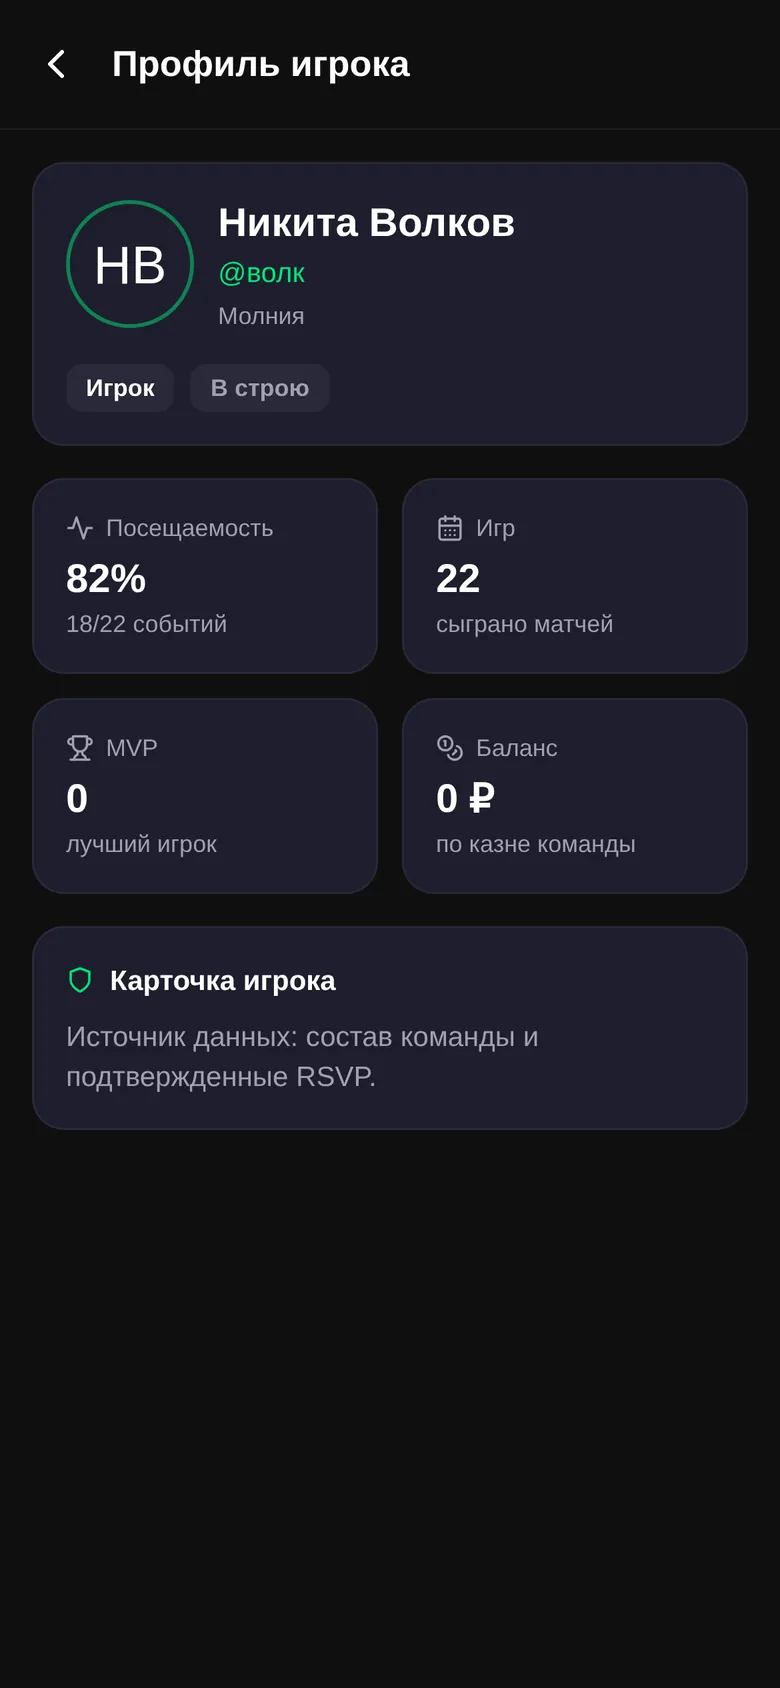
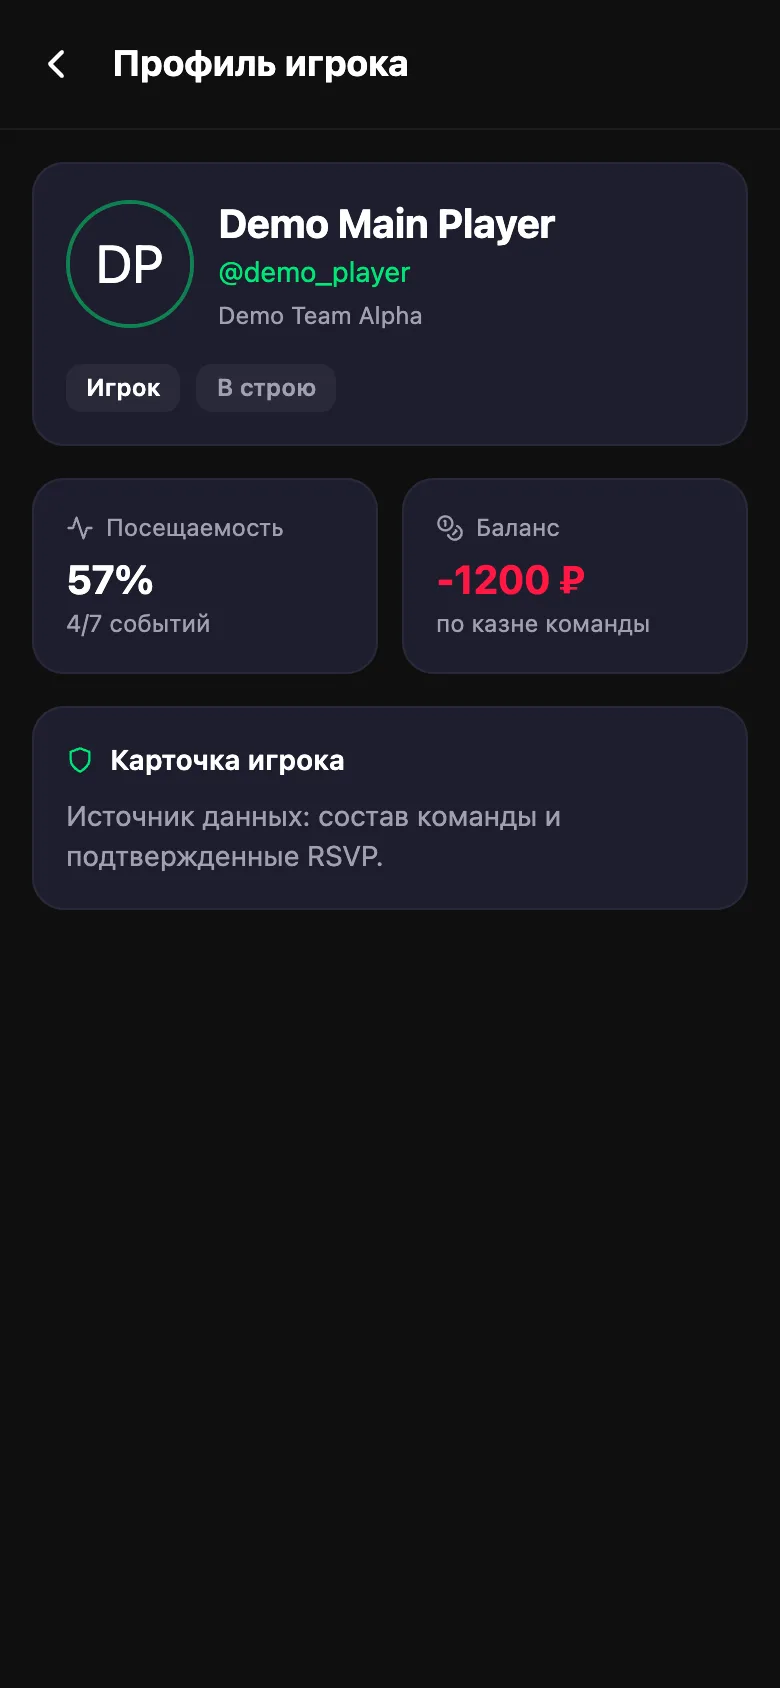
fix(ui): аватар-заглушка в профиле, свежие снимки инструкции игрока
Профиль без фото показывал битую картинку со словом «profile» — теперь
инициалы, как в карточке игрока. Снимки «Статистики», карточки игрока и
профиля в инструкции пересняты: на старых были K/D, MVP и «Редактировать».

diff --git a/pbth/public/guide/player.html b/pbth/public/guide/player.html
@@ -370,7 +370,7 @@
 
   <h3>Статистика</h3>
   <figure>
-    <img src="img/team-stats.webp" alt="Вкладка «Статистика»: список игроков с посещаемостью" width="780" height="5310" loading="lazy" decoding="async">
+    <img src="img/team-stats.webp" alt="Вкладка «Статистика»: список игроков с посещаемостью" width="780" height="2734" loading="lazy" decoding="async">
     <figcaption>Вся команда в одном списке</figcaption>
   </figure>
   <p>По каждому игроку — <strong>посещаемость</strong>: процент и полоса, например <em>82% (18/22)</em>. Считается по подтверждённым «Иду». Ещё один довод отвечать вовремя.</p>
@@ -402,7 +402,7 @@
 <section id="s11">
   <h2 class="sec"><span class="num">11</span>Профиль и календарь в телефоне</h2>
   <figure>
-    <img src="img/profile.webp" alt="Профиль: имя, ник, подключённый Telegram, способы входа, интеграция календаря" width="780" height="2108" loading="lazy" decoding="async">
+    <img src="img/profile.webp" alt="Профиль: имя, ник, подключённый Telegram, способы входа, интеграция календаря" width="780" height="2448" loading="lazy" decoding="async">
     <figcaption>Вкладка «Профиль»</figcaption>
   </figure>
   <ul>

diff --git a/pbth/views/ProfileView.tsx b/pbth/views/ProfileView.tsx
@@ -43,7 +43,11 @@ export const ProfileView: React.FC<ProfileViewProps> = ({
           Имя и ник приходят из Telegram при входе. */}
       <div className="text-center">
         <div className="w-28 h-28 mx-auto rounded-full bg-pb-surface p-1 border-2 border-pb-primary mb-3">
-            <img src={user.avatar} className="w-full h-full rounded-full object-cover" alt="profile" />
+            <img
+              src={user.avatar || `https://ui-avatars.com/api/?name=${encodeURIComponent(user.name)}&background=1E1E2E&color=fff`}
+              className="w-full h-full rounded-full object-cover"
+              alt={user.name}
+            />
         </div>
         <h2 className="text-2xl font-bold text-white">{user.name}</h2>
         <p className="text-pb-primary font-mono text-lg">@{user.nickname}</p>
